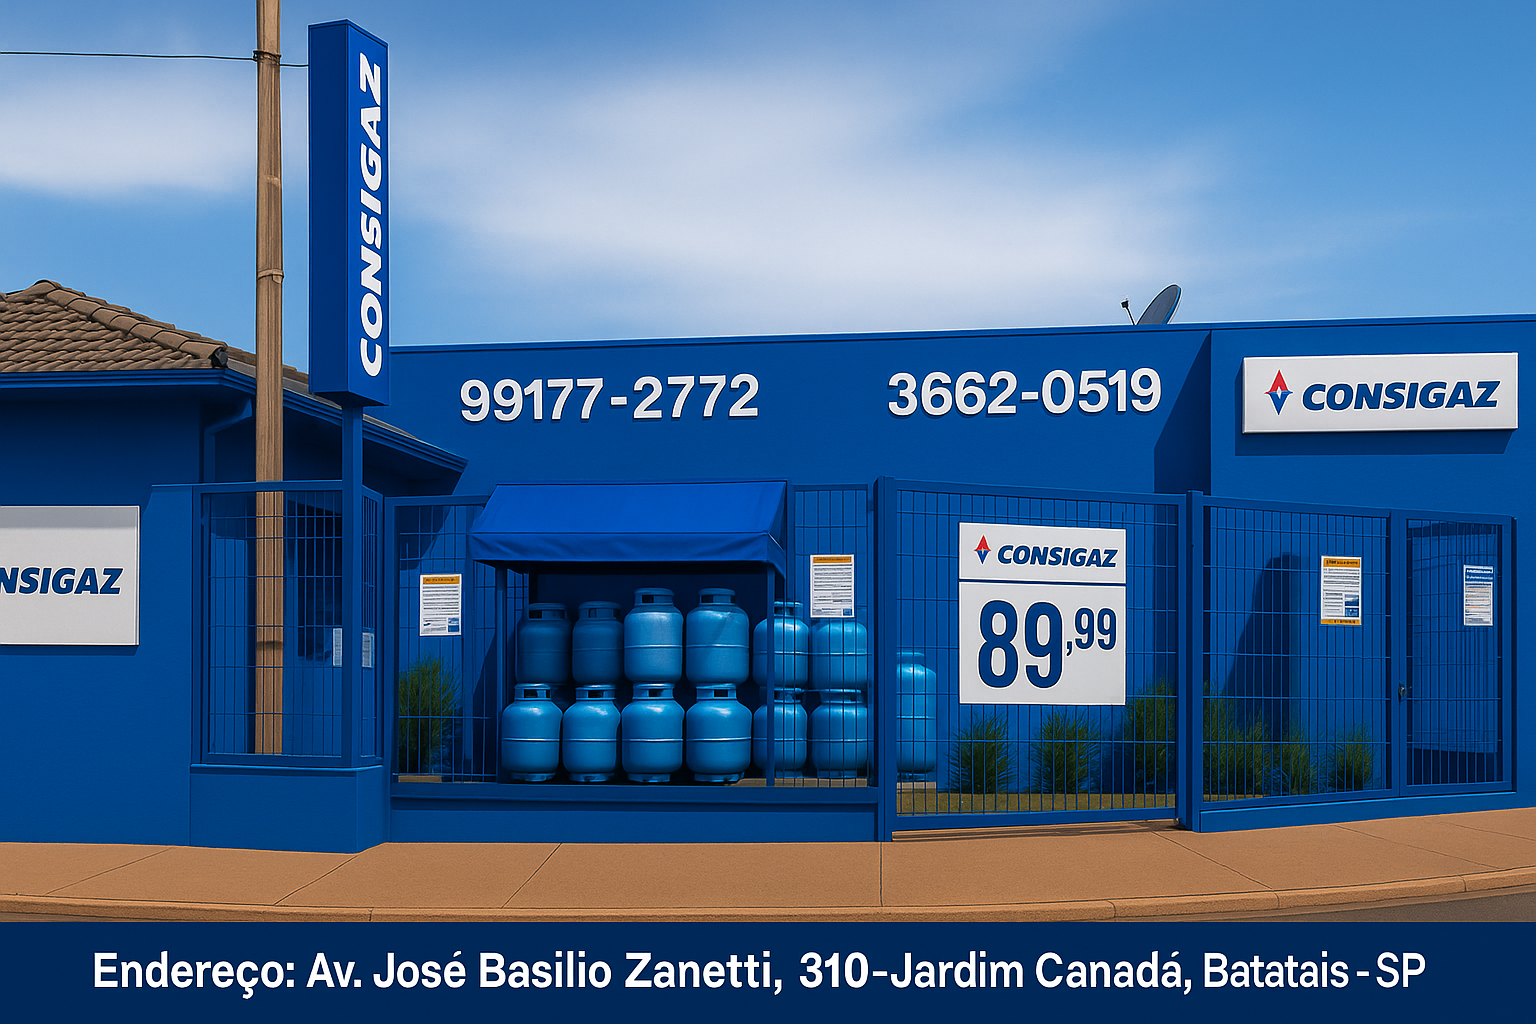
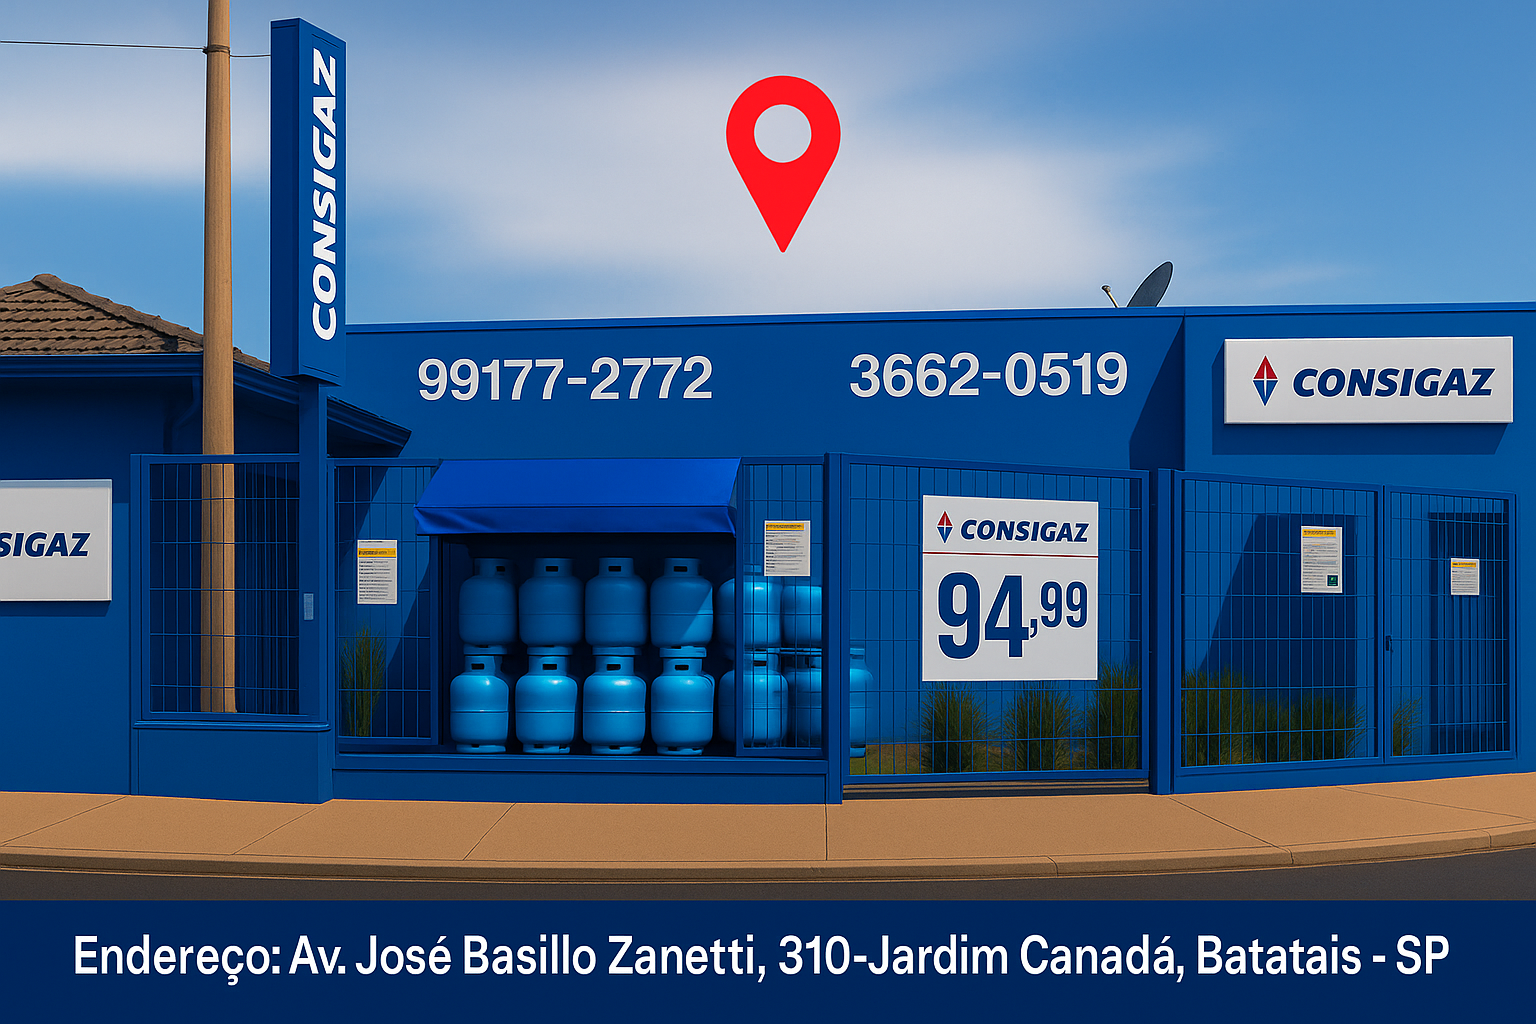
atualziação -  localização e valor atual

diff --git a/src/components/HeroSection/heroSection.css b/src/components/HeroSection/heroSection.css
@@ -211,22 +211,39 @@
   opacity: 0.9;
 }
 
+.bloco-localizacao {
+  flex-direction: column;
+  display: flex;
+  justify-content: center;
+  align-items: center;
+}
+
 .container-localizacao {
-  padding: 60px 20px;
   text-align: center;
   background-color: #fff;
+  display: flex;
+  justify-content: center;
+  align-items: center;
+}
+
+.btn-instrucao {
+  padding: 15px;
+  border-radius: 10px;
+  text-align: center;
+  white-space: nowrap;
+  background-color: rgb(16, 68, 238);
+  color: white;
 }
 
 .title-localizacao {
   font-size: 2.5rem;
-  color: rgb(16, 68, 238);
   margin-bottom: 40px;
   font-weight: bold;
 }
 
 .imagem-com-botao {
   position: relative;
-  width: calc(100% - 20px);
+  width: calc(100% - 100px);
   margin: 0 auto;
   padding: 0;
   box-sizing: border-box;
@@ -294,12 +311,6 @@
 
 .imagem-com-botao:hover {
   transform: scale(1.02);
-}
-
-.imagem-com-botao img {
-  min-height: 465px;
-  height: 100%;
-  object-fit: cover;
 }
 
 .opcoes-compra {
@@ -478,5 +489,10 @@
     margin: 0 auto;
     padding: 0;
     box-sizing: border-box;
+  }
+
+  .imagem-com-botao img {
+    height: 100%;
+    object-fit: cover;
   }
 }

diff --git a/src/components/HeroSection/heroSection.js b/src/components/HeroSection/heroSection.js
@@ -12,7 +12,7 @@ import {
 
 import botijao from "../../assets/botijao-consigaz-original.png";
 import galaoAgua from "../../assets/galao-agua.png";
-import imagemLocal from "../../assets/deposito-consigaz-localizacao.png";
+import imagemLocal from "../../assets/deposito-consigaz.png";
 import cilindroP20 from "../../assets/cilindroP20.png";
 import cilindroP45 from "../../assets/cilindroP45.png";
 
@@ -247,7 +247,7 @@ const HeroSection = () => {
         <section className="container-localizacao">
           <div className="bloco-localizacao-e-video">
             <div className="bloco-localizacao">
-              <h2 className="title-localizacao">Onde estamos?</h2>
+              <h2 className="title-localizacao btn-instrucao">Como chegar?</h2>
 
               <div className="imagem-com-botao">
                 <a
@@ -265,6 +265,9 @@ const HeroSection = () => {
                     📍 Ver rota no Google Maps
                   </div>
                 </a>
+                <br />
+                <br />
+                <br />
               </div>
             </div>
           </div>
